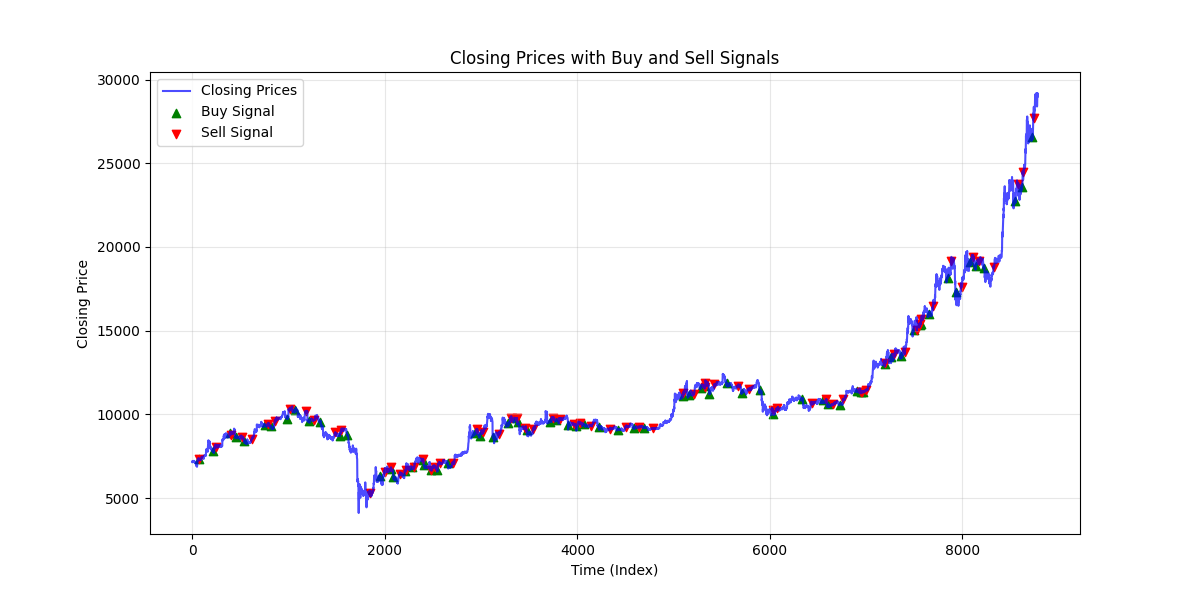
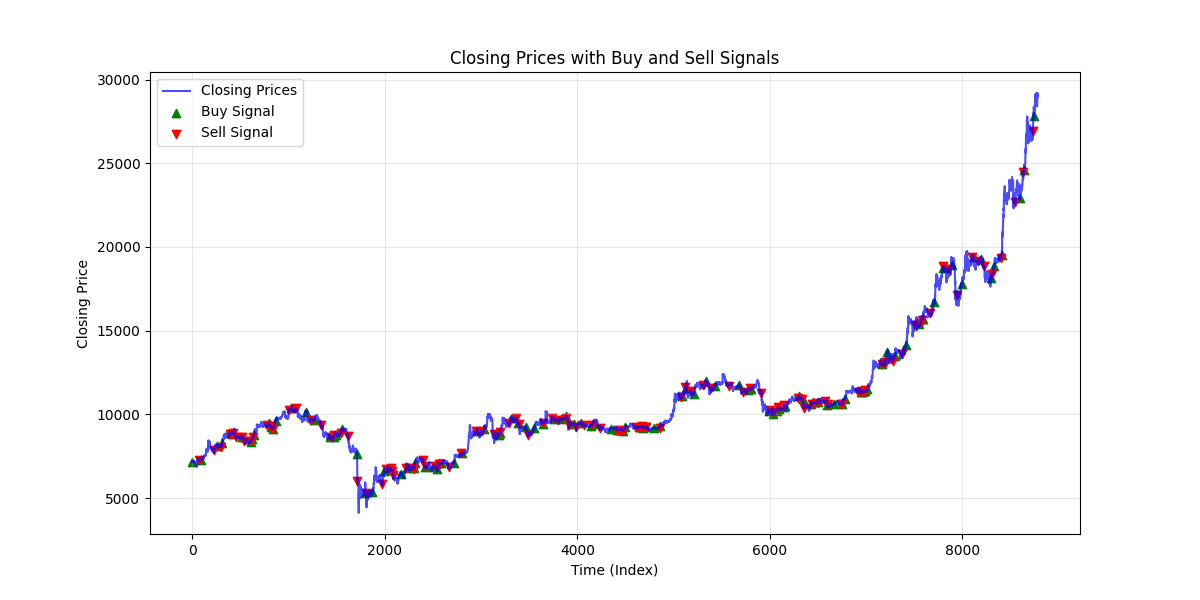
code

diff --git a/test_macd_bot.py b/test_macd_bot.py
@@ -1,35 +1,81 @@
 from utils.plots import plot_macd_with_signals
 from utils.data_loader import generate_test_data, read_csv
+from filters.macd import macd
+import numpy as np
 
-def test_macd_bot_with_generated_data():
+def generate_signals(data, hyperparams):
+    fast_window, slow_window, signal_window = map(int, hyperparams)
+
+    prices = data["close"].values
+
+    macd_line, signal_line, _ = macd(prices, fast_window, slow_window, signal_window)
+
+    signals = np.zeros_like(macd_line)
+
+    buy_signals = (macd_line[1:] > signal_line[1:]) & (macd_line[:-1] <= signal_line[:-1])
+    signals[1:][buy_signals] = 1
+
+    sell_signals = (macd_line[1:] < signal_line[1:]) & (macd_line[:-1] >= signal_line[:-1])
+    signals[1:][sell_signals] = -1
+
+    return signals, macd_line, signal_line
+
+def test_macd_bot_with_aco_params():
     """
     Generate 4 test datasets and test them against the MACD bot.
     """
-    from bots.macd_bot import macd_bot_instance
 
     # Generate 4 datasets
     datasets = [
         read_csv("data/BTC-Daily-2020.csv", start_date="2020-01-01", end_date="2020-12-31"),
         read_csv("data/BTC-Daily-2021.csv", start_date="2021-01-01", end_date="2021-12-31")
     ]
-
     for i, data in enumerate(datasets, start=1):
         try:
             print(f"Testing MACD bot on generated dataset {i}...")
 
             # Generate signals and MACD lines
-            signals, macd_line, signal_line = macd_bot_instance.generate_signals(data)
+            signals, macd_line, signal_line = generate_signals(data, [125, 192, 140])
             # Plot the results
             plot_macd_with_signals(
                 data,
                 macd_line,
                 signal_line,
                 signals,
-                plot_name=f"macd_bot_BTC-Daily-2020_with_signals_aco_{i}"
+                plot_name=f"macd_bot_BTC-Daily-with_signals_aco_202{i-1}"
             )
+            print(f"Plot saved to plots/macd_bot_BTC-Daily-with_signals_aco_202{i-1}.png")
+        except Exception as e:
+            print(f"Error testing MACD bot on generated dataset {i}: {e}")
 
+def test_macd_bot_with_default_params():
+    """
+    Generate 4 test datasets and test them against the MACD bot.
+    """
+
+    # Generate 4 datasets
+    datasets = [
+        read_csv("data/BTC-Daily-2020.csv", start_date="2020-01-01", end_date="2020-12-31"),
+        read_csv("data/BTC-Daily-2021.csv", start_date="2021-01-01", end_date="2021-12-31")
+    ]
+    for i, data in enumerate(datasets, start=1):
+        try:
+            print(f"Testing MACD bot on generated dataset {i}...")
+
+            # Generate signals and MACD lines
+            signals, macd_line, signal_line = generate_signals(data, [12, 26, 9])
+            # Plot the results
+            plot_macd_with_signals(
+                data,
+                macd_line,
+                signal_line,
+                signals,
+                plot_name=f"macd_bot_BTC-Daily-with_signals_default_202{i-1}"
+            )
+            print(f"Plot saved to plots/macd_bot_BTC-Daily-with_signals_default_202{i-1}.png")
         except Exception as e:
             print(f"Error testing MACD bot on generated dataset {i}: {e}")
 
 if __name__ == "__main__":
-    test_macd_bot_with_generated_data()
+    test_macd_bot_with_aco_params()
+    test_macd_bot_with_default_params()

diff --git a/test_all.py b/test_all.py
@@ -54,6 +54,8 @@ def save_ranking_graph(data, title, xlabel, ylabel, output_file):
     plt.savefig(output_file)
     plt.close()
 
+    print(f"Graph saved as '{output_file}'")
+
 def generate_graphs(results):
     """
     Generate graphs for bot and optimizer rankings.
@@ -96,14 +98,14 @@ def generate_graphs(results):
         output_file="plots/optimizer_ranking.png"
     )
 
-def test_bots_and_optimisers():
+def test_bots_and_optimisers(start_date=None, end_date=None):
     bots_folder = os.path.join(os.path.dirname(__file__), 'bots')
     optimisers_folder = os.path.join(os.path.dirname(__file__), 'optimisers')
 
     bots = import_classes(bots_folder, 'bots')
     optimisers = import_classes(optimisers_folder, 'optimisers')
 
-    training_data = read_csv(TRAINING_DATASET_PATH)
+    training_data = read_csv(TRAINING_DATASET_PATH, start_date=start_date, end_date=end_date)
     dataset_2020 = read_csv(DATASET_2020_DAILY_PATH)
     dataset_2021 = read_csv(DATASET_2021_DAILY_PATH)
 
@@ -171,4 +173,7 @@ def test_bots_and_optimisers():
     generate_graphs(results)
 
 if __name__ == "__main__":
-    test_bots_and_optimisers()
+    # SET START AND END DATES HERE
+    # Default is None, which means the entire training dataset will be used
+    # "Rocky" dataset is from 2015-01-01 to 2015-10-31
+    test_bots_and_optimisers(start_date=None, end_date=None)

diff --git a/test_bollinger_bot.py b/test_bollinger_bot.py
@@ -1,10 +1,7 @@
 from utils.plots import plot
 from utils.data_loader import read_csv
 
-def test_macd_bot_with_generated_data():
-    """
-    Generate 4 test datasets and test them against the MACD bot.
-    """
+def test_bollinger_bot():
     from bots.bollinger_bot import bollinger_bot
     default_bollinger_bot = bollinger_bot()
     default_bollinger_bot.hyperparams = [20, 2] # Traditional Bollinger Bands
@@ -24,9 +21,9 @@ def test_macd_bot_with_generated_data():
                 signals,
                 plot_name=f"bollinger_bot_BTC-Daily_default_{i}",
             )
-
+            print(f"Plot saved to plots/bollinger_bot_BTC-Daily_default_{i}.png")
         except Exception as e:
-            print(f"Error testing MACD bot on generated dataset {i}: {e}")
+            print(f"Error testing Bollinger bot on generated dataset {i}: {e}")
 
 if __name__ == "__main__":
-    test_macd_bot_with_generated_data()
+    test_bollinger_bot()

diff --git a/optimisers/hook_jeeves.py b/optimisers/hook_jeeves.py
@@ -33,13 +33,11 @@ def hook_jeeves(bot_instance, data, max_iterations=100, step_size=1, reduction_f
 
                 # Handle discrete and continuous bounds
                 if isinstance(bot_instance.bounds[i], list):
-                    # Discrete parameter: select next/previous value in the list
                     current_index = bot_instance.bounds[i].index(hyperparams[i])
                     new_index = current_index + direction
                     if 0 <= new_index < len(bot_instance.bounds[i]):
                         new_hyperparams[i] = bot_instance.bounds[i][new_index]
                 elif isinstance(bot_instance.bounds[i], tuple):
-                    # Continuous parameter: adjust by step size
                     new_hyperparams[i] += direction * step_size
                     new_hyperparams[i] = max(min(new_hyperparams[i], bot_instance.bounds[i][1]), bot_instance.bounds[i][0])
 

diff --git a/bots/bollinger_bot.py b/bots/bollinger_bot.py
@@ -52,9 +52,6 @@ class bollinger_bot(bot):
         signals = np.diff(raw, prepend=0)
         return signals
 
-
-# ----------------------------------------
-# Example usage: use grid search to optimize hyperparameters
 bollinger_bot_instance = bollinger_bot()
 training_data = read_csv(
     TRAINING_DATASET_PATH, start_date="2015-01-01", end_date="2015-12-31"

diff --git a/inspect_btc.py b/inspect_btc.py
@@ -1,0 +1,8 @@
+from utils.data_loader import read_csv
+from config import TRAINING_DATASET_PATH
+from utils.plots import plot
+import numpy as np
+data = read_csv(TRAINING_DATASET_PATH, start_date="2015-01-01", end_date="2015-10-31")
+signals = np.array([0 for _ in range(len(data))])
+plot(data, signals, "test_plot")
+print("Plot saved to plots/test_plot.png")

diff --git a/bots_tester.py b/bots_tester.py
@@ -3,6 +3,8 @@ import importlib
 from utils.data_loader import read_csv
 from config import *
 from utils.plots import plot
+import numpy as np
+np.random.seed(4404)
 
 # Dynamically import all bots from the bots/ folder
 def import_bots():

diff --git a/FitHistory.py b/FitHistory.py
@@ -112,4 +112,4 @@ plt.title('Convergence Range of Different Bots with Different Optimisation Algor
 plt.tight_layout()
 plt.savefig("plots/convergences.png")
 
-plt.show()
+print("Plots saved to plots/convergences.png")

diff --git a/filters/macd.py b/filters/macd.py
@@ -1,3 +1,4 @@
+# Defunct not working code dunno why
 import numpy as np
 
 def macd(prices, fast_window, slow_window, signal_window):

diff --git a/README.md b/README.md
@@ -4,12 +4,35 @@
 
 1. **Dataset**: [BTC/USD Dataset](https://www.kaggle.com/datasets/prasoonkottarathil/btcinusd)
 
-To reproduce the results described in the report/video, simply download the source code and run the following:
-```
-python bots_tester.py
-```
-
 Dependencies may be required to run the simulation. To install the required dependencies, run the following:
 ```
 pip install -r requirements.txt
 ```
+
+To reproduce the results described in the report/video, first download the source code. 
+
+To view the results of the original bot/optimizer pairs with own chosen training datasets, run the following:
+```
+python bots_tester.py
+```
+
+To get the plots of the average performance of bots and optimizers when seeded with np.random.seed(4404), with the maximal daily training dataset of 2014-2019, run the following:
+```
+python test_all.py
+```
+To get the results from using a "rocky" training data set, edit config described at the bottom of the test_all.py file with the "rocky" dataset (2015-01-01 to 2015-10-31).
+![image](plots/optimizer_ranking.png)
+![image](plots/bot_ranking.png)
+
+To get the plot of convergences of fitness of the training dataset, run the following:
+```
+python FitHistory.py
+```
+![image](plots/convergences.png)
+
+To get the plots of MACD bot with ACO optimized parameters and default [12, 26, 9], run the following:
+```
+python test_macd_bot.py
+```
+![image](plots/macd_bot_BTC-Daily-with_signals_aco_2021.png)
+![image](plots/macd_bot_BTC-Daily-with_signals_default_2021.png)
